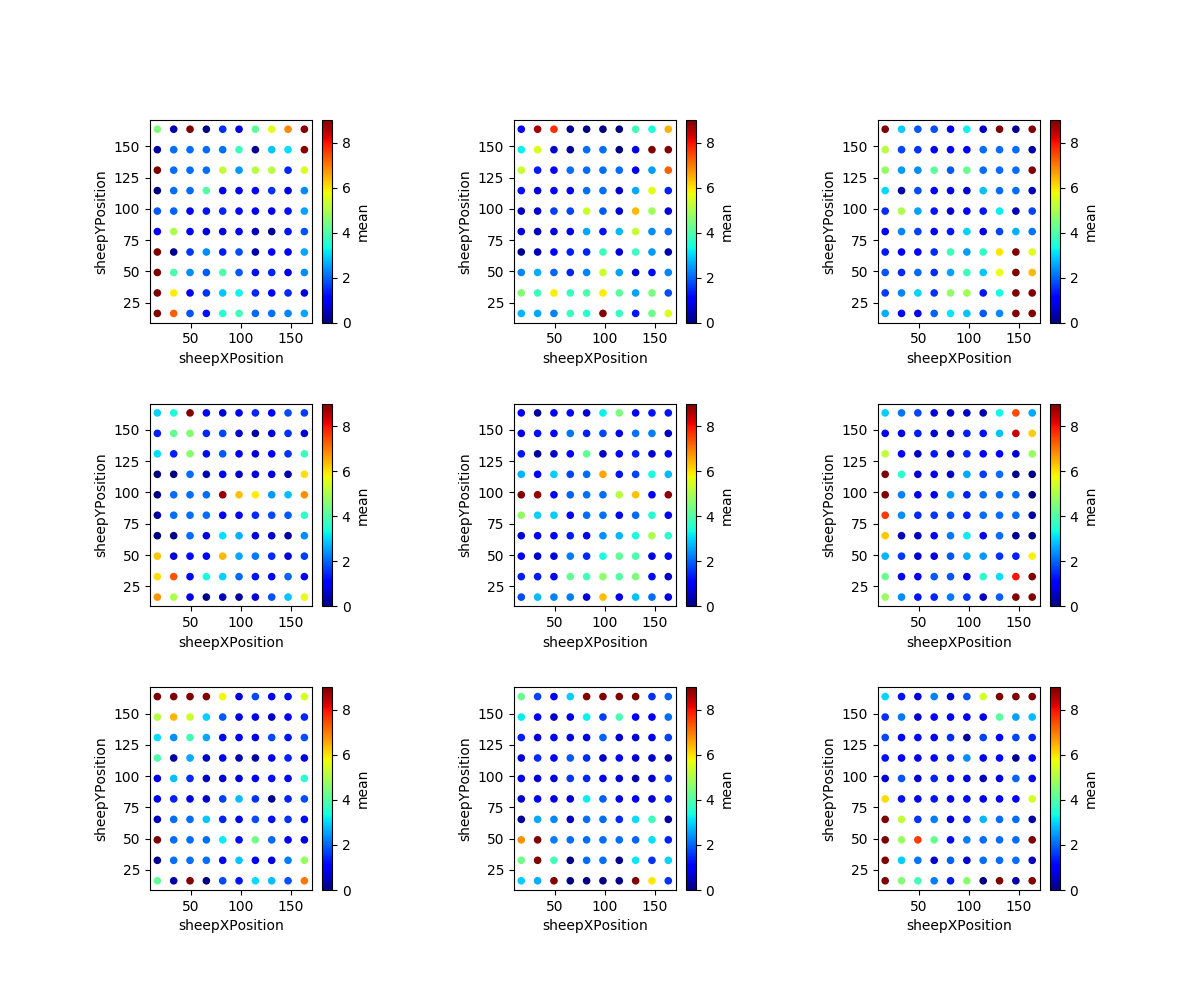
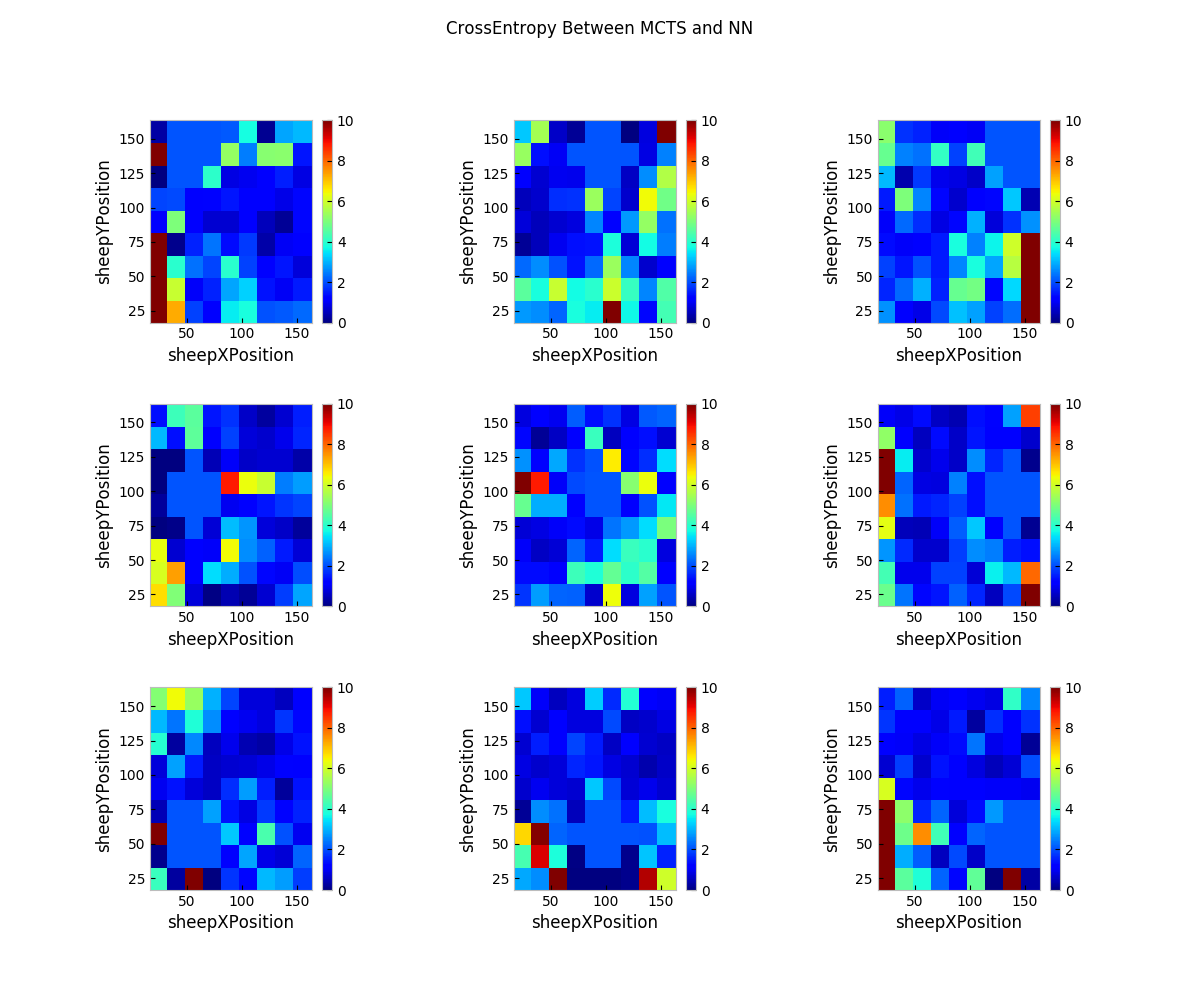
change heatmap style

diff --git a/exec/evaluateByCrossEntropy.py b/exec/evaluateByCrossEntropy.py
@@ -18,6 +18,9 @@ import math
 from collections import OrderedDict
 from evaluationFunctions import GetSavePath, ComputeStatistics, LoadTrajectories
 import pickle
+import matplotlib.style
+import matplotlib as mpl
+mpl.style.use('bmh')
 
 
 class GenerateDistribution:
@@ -67,9 +70,18 @@ class DrawHeatMap:
         OrderedSubDFs = [df for subDF in subDFs for key, df in subDF.groupby(self.groupByVariableNames[1])]
         for subDF in OrderedSubDFs:
             subplot = figure.add_subplot(self.subplotIndex[0], self.subplotIndex[1], numOfplot)
-            plotDF = subDF.reset_index()
-            plotDF.plot.scatter(x=self.subplotIndexName[0], y=self.subplotIndexName[1], c=colName, colormap="jet", ax=subplot, vmin=0, vmax=9)
+            resetDF = subDF.reset_index()[[self.subplotIndexName[0], self.subplotIndexName[1], colName]]
+            plotDF = resetDF.pivot(index=self.subplotIndexName[1], columns=self.subplotIndexName[0], values=colName)
+            cValues = plotDF.values
+            xticks = plotDF.columns.values
+            yticks = plotDF.index.values
+            ax = subplot.pcolormesh(xticks, yticks, cValues, cmap='jet', vmin=0, vmax=10)
+            plt.xlabel(self.subplotIndexName[0])
+            plt.ylabel(self.subplotIndexName[1])
+            plt.colorbar(ax)
+            # plotDF.plot.scatter(x=self.subplotIndexName[0], y=self.subplotIndexName[1], c=colName, colormap="jet", ax=subplot, vmin=0, vmax=9)
             numOfplot = numOfplot + 1
+        plt.suptitle("CrossEntropy Between MCTS and NN")
         plt.subplots_adjust(wspace=0.8, hspace=0.4)
 
 
@@ -92,7 +104,7 @@ def main():
     # env
     wolfID = 1
     sheepID = 0
-    posIndex = 0
+    posIndex = [0, 1]
     numOfAgent = 2
     numPosEachAgent = 2
     numStateSpace = numOfAgent * numPosEachAgent
@@ -136,7 +148,7 @@ def main():
     heuristic = lambda state: 0
     estimateValue = mcts.RollOut(rolloutPolicy, maxRollOutSteps, sheepTransition, rewardFunction, isTerminal, heuristic)
 
-    numSimulations = 200
+    numSimulations = 600
     mctsPolicyDistOutput = mcts.MCTS(numSimulations, selectChild, expand, estimateValue, mcts.backup,
                                      mcts.establishSoftmaxActionDist)
 
@@ -146,7 +158,6 @@ def main():
     modelPath = os.path.join(dataDir, modelDir, modelName)
     if not os.path.exists(modelPath):
         print("Model {} does not exist".format(modelPath))
-        exit(1)
     generateModel = net.GenerateModelSeparateLastLayer(numStateSpace, numActionSpace, regularizationFactor=0, valueRelativeErrBound=0.0)
     emptyModel = generateModel([64]*4)
     trainedModel = net.restoreVariables(emptyModel, modelPath)
